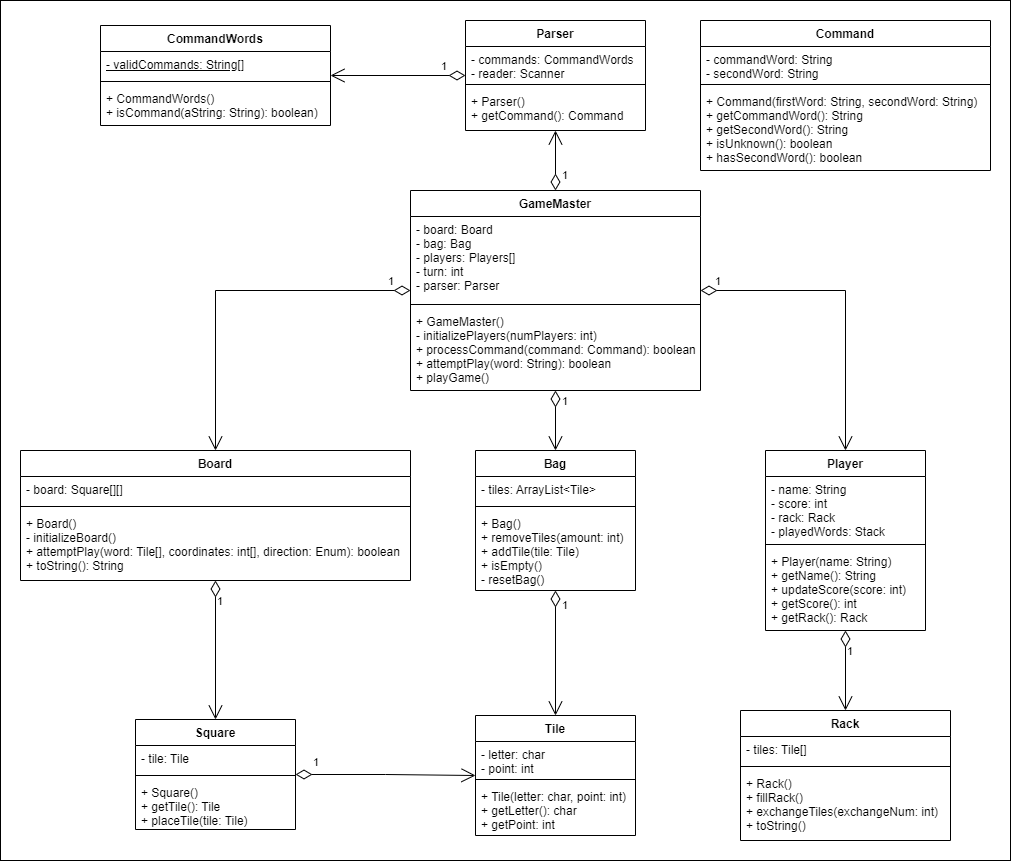
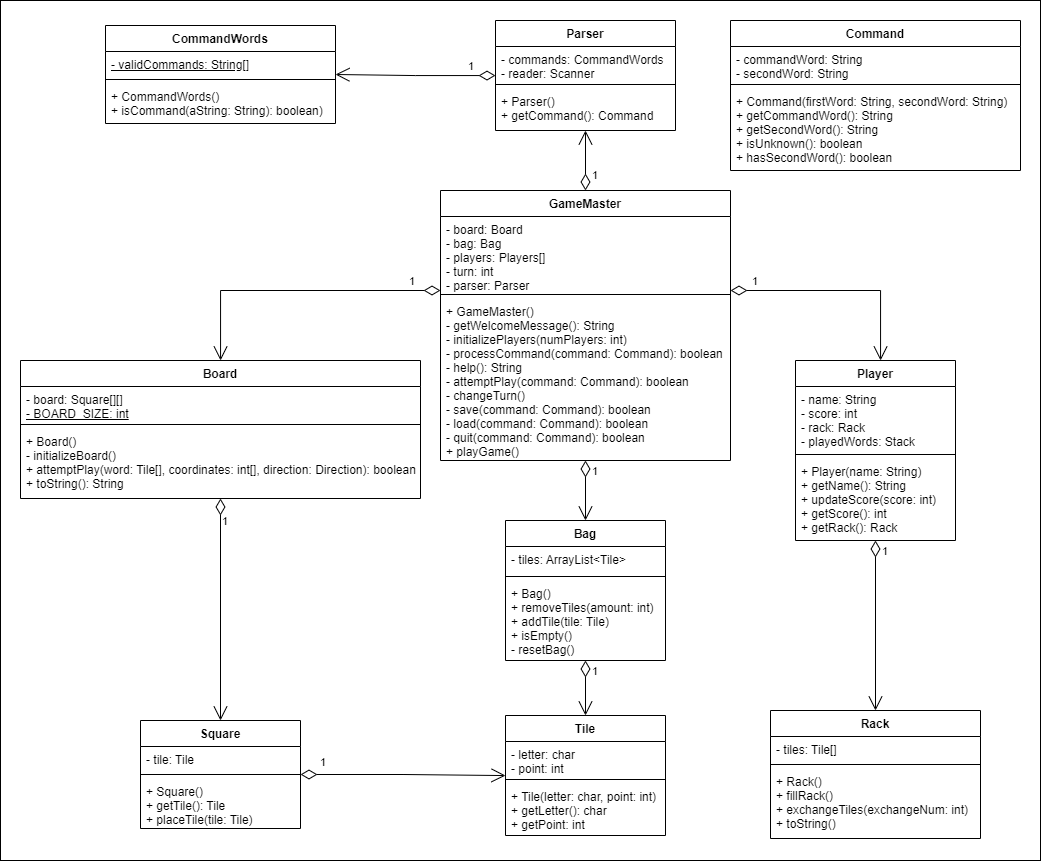
Code reset; Updated UML

diff --git a/src/GameMaster.java b/src/GameMaster.java
@@ -1,7 +1,3 @@
-import java.io.File;
-import java.io.FileNotFoundException;
-import java.util.Scanner;
-
 public class GameMaster {
 
     private Board board;
@@ -14,10 +10,7 @@ public class GameMaster {
      * Create and initialize the game.
      */
     public GameMaster() {
-        board = new Board();
-        bag = new Bag();
-        turn = 0;
-        parser = new Parser();
+
     }
 
     /**
@@ -25,12 +18,7 @@ public class GameMaster {
      * @return The opening message.
      */
     private String getWelcomeMessage() {
-        return """
-                Welcome to the game of Scrabble!
-                Scrabble is a board spelling game.
-                Type 'help' if you need help.
-                How many players would be playing today?
-                """;
+        return "";
     }
 
     /**
@@ -38,12 +26,7 @@ public class GameMaster {
      * @param numPlayers The number of players playing the game.
      */
     private void initializePlayers(int numPlayers) {
-        players = new Player[numPlayers];
 
-        for(int i = 0; i < players.length; i++) {
-            String playerName = parser.getPlayerName(i);
-            players[i] = new Player(playerName);  // needs to initialize each player
-        }
     }
 
     /**
@@ -51,32 +34,8 @@ public class GameMaster {
      * @param command The command to be processed.
      * @return true if the command ends the game, false otherwise.
      */
-    public boolean processCommand(Command command) {
-        boolean wantToQuit = false;
-
-        if(command.isUnknown()) {
-            System.out.println("I don't know what you mean...");
-            return false;
-        }
-
-        String commandWord = command.getCommandWord();
-        if (commandWord.equals("help")) {
-            System.out.println(printHelp());
-        }
-        else if (commandWord.equals("play")) {
-            attemptPlay(command);
-        }
-        else if (commandWord.equals("quit")) {
-            wantToQuit = quit(command);
-        }
-        else if (commandWord.equals("save")) {
-            save(command);
-        }
-        else if (commandWord.equals("load")) {
-            load(command);
-        }
-
-        return wantToQuit;
+    private boolean processCommand(Command command) {
+        return false;
     }
 
     // TODO: 2022-10-18 complete implementation
@@ -86,13 +45,8 @@ public class GameMaster {
      * @return A message of help information and
      * a list of command words.
      */
-    private String printHelp() {
-        return """
-                You are supposed to 
-                
-                Your command words are:
-                help, play, quit, save, load
-                """;
+    private String help() {
+        return "";
     }
 
     // TODO: 2022-10-18 complete implementation
@@ -102,60 +56,35 @@ public class GameMaster {
      * @return true if the word is playable on the board,
      * false otherwise.
      */
-    public boolean attemptPlay(Command command) {
-        if(!command.hasSecondWord()) {
-            System.out.println("Play what?");
-            return false;
-        }
-
-        String wordAttempt = command.getSecondWord();
-
-        try {
-            Scanner dictionary = new Scanner(new File("WordList.txt"));
-            while(dictionary.hasNextLine()) {
-                if(wordAttempt.equals(dictionary.nextLine())) {
-                    this.board.attemptPlay();
-                }
-            }
-        }
-        catch (FileNotFoundException exception) {
-            System.out.println("Dictionary not found");
-            return false;
-        }
-
-        if (nextRoom == null) {
-            System.out.println("There is no door!");
-        }
-        else {
-            history.push(currentRoom);
-            currentRoom = nextRoom;
-            this.printDescription();
-        }
-
+    private boolean attemptPlay(Command command) {
         return false;
     }
 
     /**
      * Changes the players' turn.
      */
-    public void changeTurn() {
-        this.turn = (this.turn + 1) % players.length;
+    private void changeTurn() {
+
     }
 
     // TODO: 2022-10-18 complete implementation
     /**
      * Save the current game being played.
-     * @param command Command to save the game
+     * @param command Command to save the game.
+     * @return true if the game saved, false otherwise.
      */
-    private void save(Command command) {
+    private boolean save(Command command) {
+        return false;
     }
 
     // TODO: 2022-10-18 complete implementation
     /**
      * Load a saved game.
      * @param command Command to load the saved game
+     * @return true if the game loaded, false otherwise.
      */
-    private void load(Command command) {
+    private boolean load(Command command) {
+        return false;
     }
 
     /**
@@ -165,27 +94,13 @@ public class GameMaster {
      * false otherwise.
      */
     private boolean quit(Command command) {
-        if(command.hasSecondWord()) {
-            System.out.println("Quit what?");
-            return false;
-        }
-        else {
-            return true;
-        }
+        return false;
     }
 
     /**
      * Main play routine.  Loops until end of play.
      */
     public void playGame() {
-        System.out.println(this.getWelcomeMessage());
-        int numPlayers = parser.getNumPlayers();
-        this.initializePlayers(numPlayers);
 
-        boolean finished = false;
-        while(!finished) {
-            Command command = parser.getCommand();
-            finished = this.processCommand(command);
-        }
     }
 }

diff --git a/src/Board.java b/src/Board.java
@@ -9,19 +9,14 @@ public class Board {
      * Create the board.
      */
     public Board() {
-        board = new Square[BOARD_SIZE][BOARD_SIZE];
-        this.initializeBoard();
+
     }
 
     /**
      * Initialize the board.
      */
     private void initializeBoard() {
-        for(Square[] squares : board) {
-            for(Square square : squares) {
-                square = new Square();
-            }
-        }
+
     }
 
     // TODO: 2022-10-19 complete implementation
@@ -45,38 +40,6 @@ public class Board {
      */
     @Override
     public String toString() {
-        String boardString = "  || 0";
-
-        for(int i = 1; i < BOARD_SIZE; i++) {
-            if(i <= 10)
-                boardString += " | " + i;
-            else
-                boardString += "| " + i;
-        }
-        boardString += """
-
-                ---------------------------------------------------------------
-                """;
-
-        int verticalCoordinate = 0;
-        for(Square[] squares : board) {
-            if(verticalCoordinate < 10)
-                boardString += " " + verticalCoordinate + "|";
-            else
-                boardString += verticalCoordinate + "|";
-
-            for(Square square : squares) {
-                Tile tile = square.getTile();
-                if(tile == null)
-                    boardString += " |   ";
-                else
-                    boardString += " | " + tile.getLetter() + " ";
-            }
-            boardString += "\n";
-
-            verticalCoordinate++;
-        }
-
-        return boardString;
+        return "";
     }
 }
